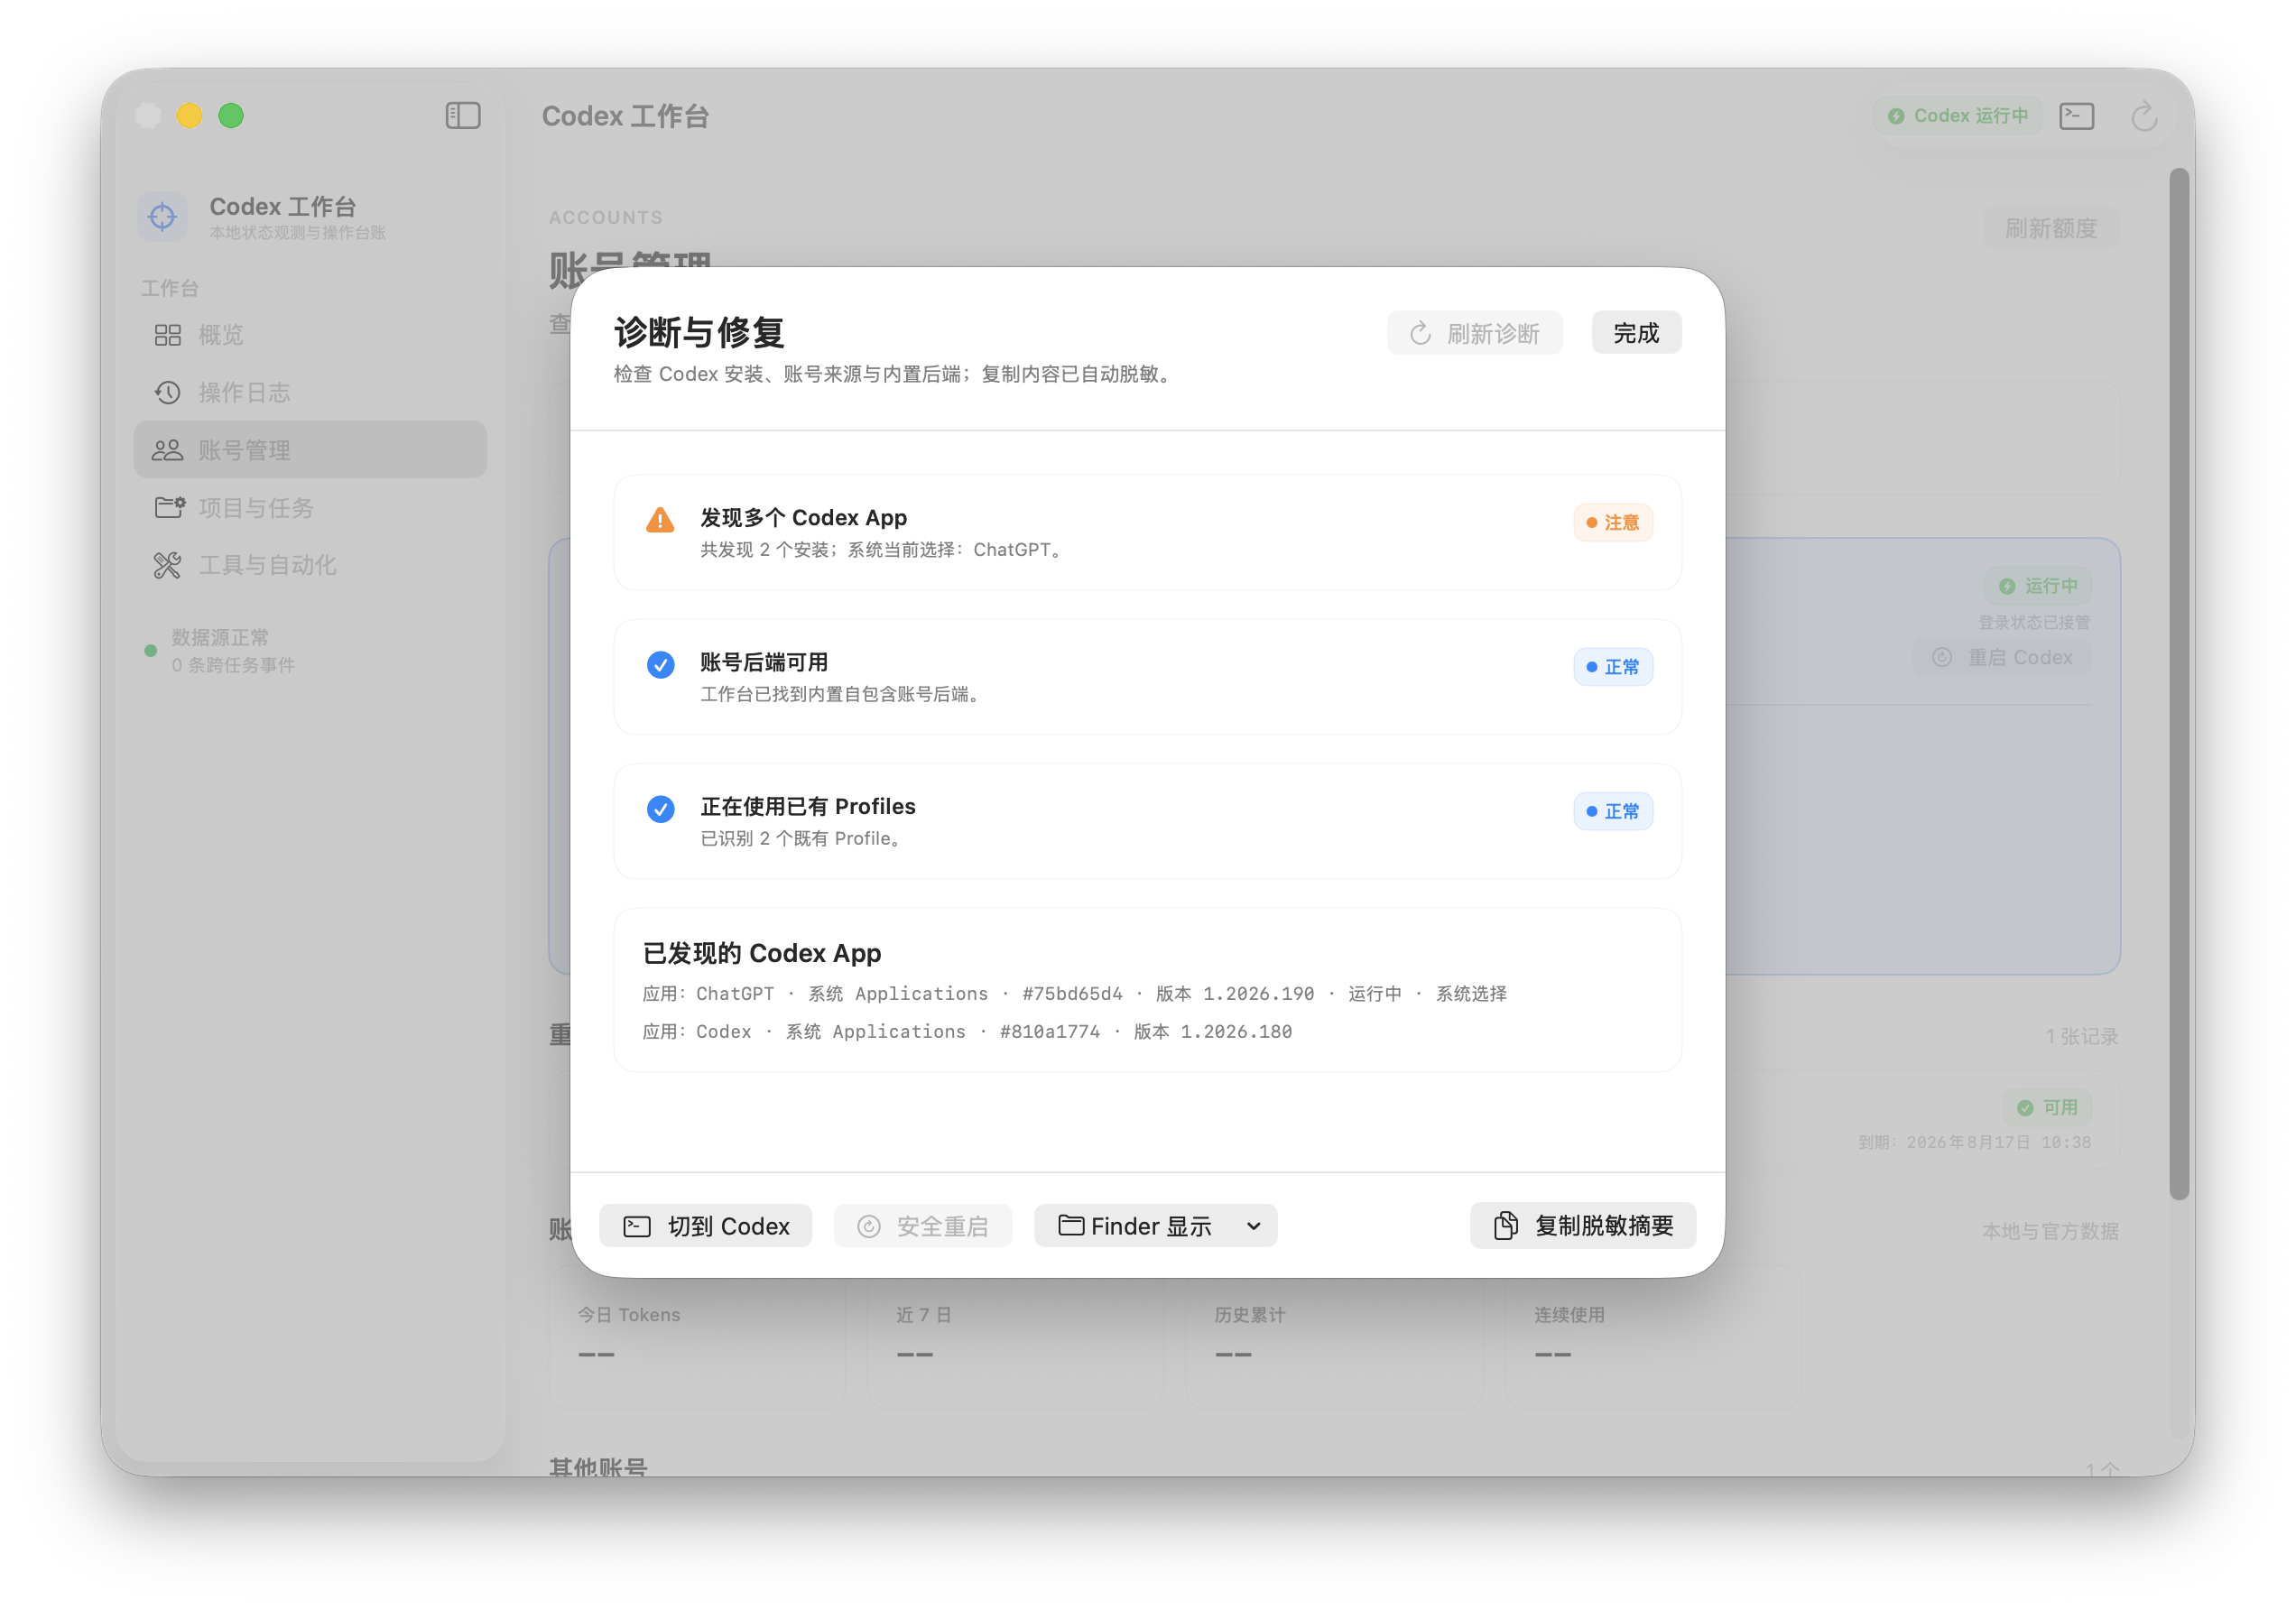
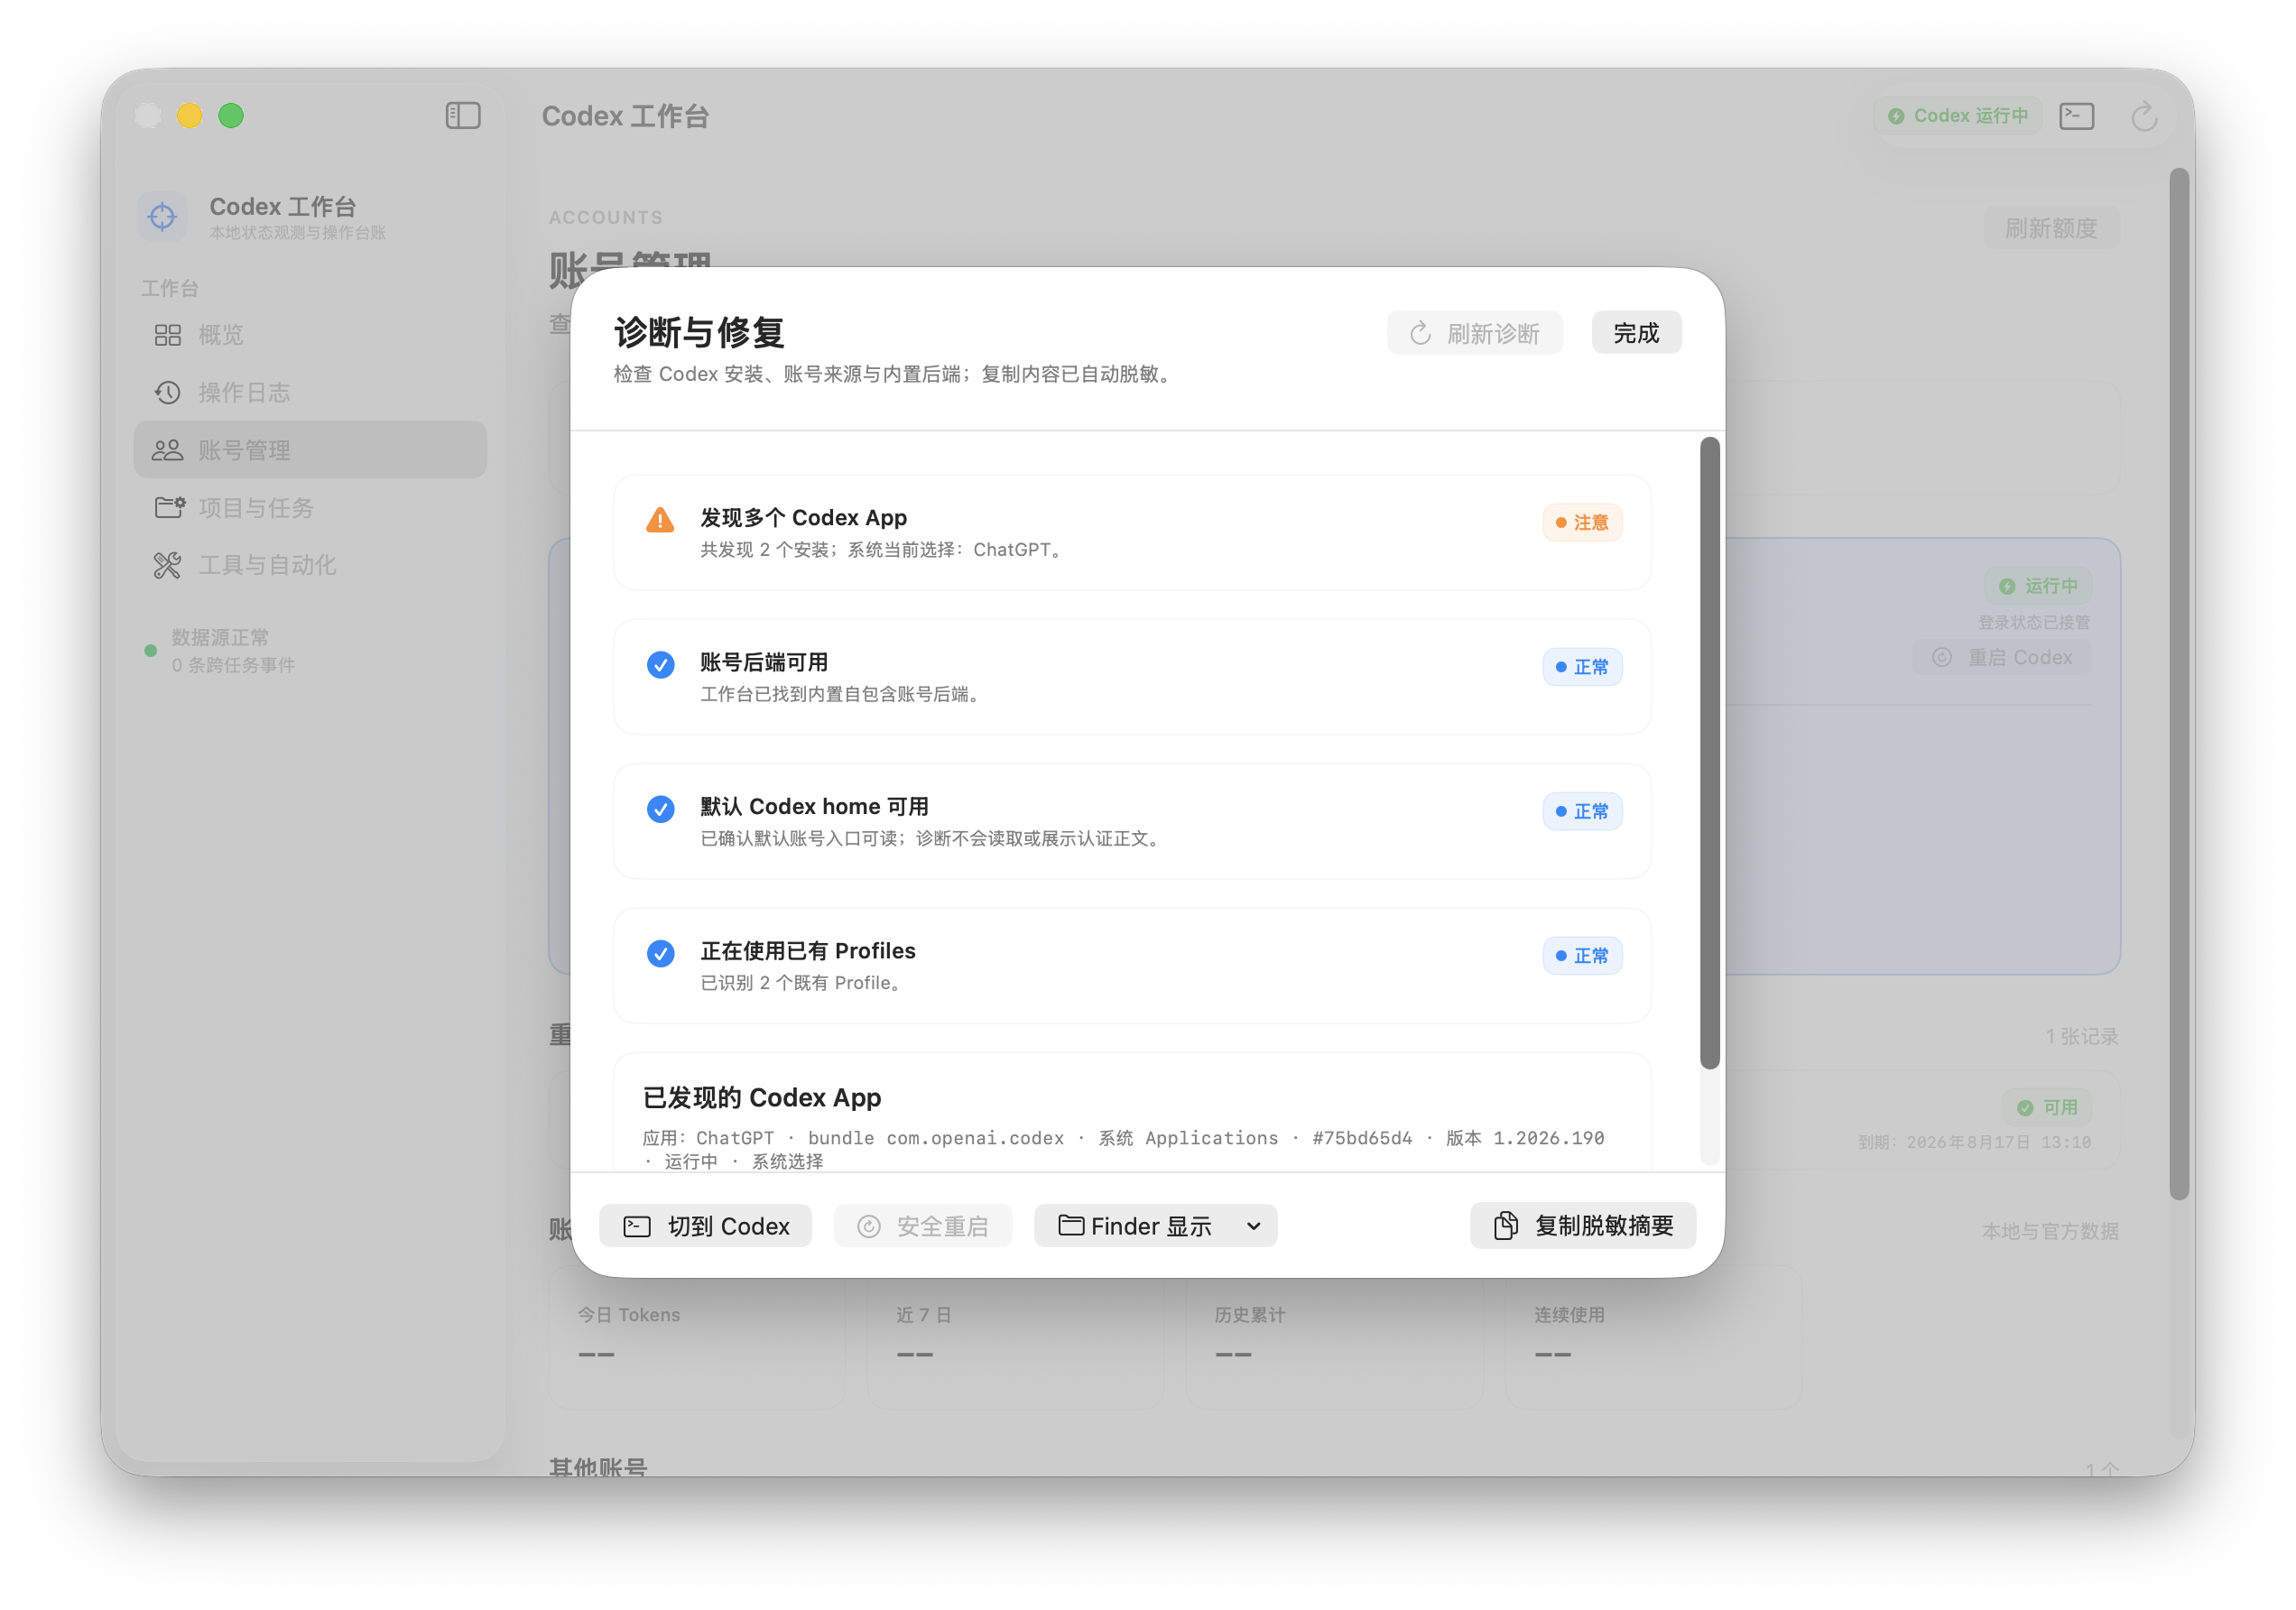
docs: refresh final workbench acceptance

diff --git a/codex-workbench/docs/productization-live-acceptance.md b/codex-workbench/docs/productization-live-acceptance.md
@@ -11,11 +11,11 @@
 - 安装位置：`/Users/dysania/Applications/Codex 工作台.app`
 - Bundle ID：`com.hd2yao.codex-workbench`
 - 版本：`0.2.0`
-- 最终安装源码提交：`23c3616`
[3 lines of base64/hex data omitted]
-- 构建时间：`2026-07-21T02:55:12Z`
+- 最终安装源码提交：`7877301`
[3 lines of base64/hex data omitted]
+- 构建时间：`2026-07-21T05:04:40Z`
 
 旧 `Codex 观测站.app` 已原子迁移为唯一的 `Codex 工作台.app`；旧名称不再并存。安装前后的 Codex 主进程均为 PID `52370`，启动时间为 2026-07-20 17:35:13，证明覆盖安装没有中断或重启正在执行任务的 Codex。
 
@@ -24,23 +24,26 @@
 - 已安装冻结后端识别为 `managed_profiles`，识别 2 个既有 Profiles，当前 profile 为 `hd-sarah-blackwell`。
 - 桌面状态为已托管，后端记录 PID 与真实 Codex PID 一致；安装和验收没有修改认证正文、消费重置卡或创建新账号。
 - 2026-07-17 的既有真实验收已完成 `hd-sarah-blackwell → hd-master → hd-sarah-blackwell` 双向切换并恢复初始账号，本轮完整 Python/Core 回归继续覆盖同一事务。
-- 本轮 runtime 为 `running`。按执行契约禁止为了验收中断真实任务，因此没有执行真实重启；空闲直接重启、运行/等待/未知确认、取消、失败、成功与账号验证由 Python、Core、AppModel 测试和安装版视觉状态覆盖。
-- 真实机器同时存在 `/Applications/ChatGPT.app` 与 `/Applications/Codex.app`。诊断页能报告重复安装、系统选择路径、运行状态、内置后端和 Profiles 模式；复制摘要使用类别化路径和短指纹，不包含认证正文、email、token、Cookie 或完整重置卡 ID。
+- 本轮 runtime 为 `running`。按执行契约禁止为了验收中断真实任务；安装版后端在执行前实时复核并以退出码 3 拒绝无确认重启，Codex PID 保持 `52370`。空闲直接重启、运行/等待/未知确认、取消、失败、成功与账号验证由 Python、Core、直接 AppModel 测试和安装版视觉状态覆盖。
+- 真实机器同时存在 `/Applications/ChatGPT.app` 与 `/Applications/Codex.app`。诊断页能报告 bundle id 解析、重复安装、系统选择路径、运行状态、默认 Codex home、内置后端和 Profiles 模式；复制摘要使用类别化路径和短指纹，不包含认证正文、email、token、Cookie 或完整重置卡 ID。
 
 ## 自包含与干净 HOME
 
-冻结后端在 `env -i HOME=<临时目录> PATH=/usr/bin:/bin` 下运行，临时 HOME 只有空 `.codex`，没有 Python、Homebrew、`.codex-profiles` 或源码路径。最终结果：
+冻结后端在 `env -i HOME=<临时目录> PATH=/usr/bin:/bin` 下分别验证缺少认证入口和仅有测试认证入口两种状态，没有 Python、Homebrew、`.codex-profiles` 或源码路径。最终结果：
 
-- 返回 `account_mode=local_default`、`active_profile=local-default`。
-- 所有 Mach-O 均为 arm64，无 x86_64。
-- 前后文件树一致，不创建 Profiles、软链、缓存或认证桥接。
-- 没有 `auth.json` 时不启动 Codex App Server，避免首次初始化向空 home 写入 SQLite、系统 Skills 和临时链接；151 个 Python 测试覆盖该回归。
+- 缺少 `auth.json` 或只有空 `.codex` 时返回 `account_mode=unavailable`、`active_profile=null`，不会把空目录冒充当前账号。
+- 测试 `auth.json` 存在时返回 `account_mode=local_default`，但账号不可确认，因此 Swift 不显示当前账号；账号读取只把认证入口复制到权限为 0700/0600 的临时 `CODEX_HOME`，App Server 的初始化写入与源 HOME 完全隔离并在读取后清理。
+- 两种状态的源 HOME 前后文件树与文件 hash 一致，不创建 Profiles、软链、SQLite、系统 Skills、缓存或认证桥接。
+- 所有冻结后端 Mach-O 均为 arm64，无 x86_64；151 个 Python 测试和 App 源码级默认 home 测试覆盖上述回归。
 
 ## 最终对抗式复审
 
 - 复审发现 UI 的运行状态最多可能陈旧 60 秒。账号后端现在会在真正退出 Codex 前再次读取任务状态；`running`、`waiting` 或未知状态未获明确确认时以专用结果拒绝执行，工作台收到后回到风险确认，确认后的命令才携带 `--allow-active`。
 - 复审发现旧冻结包的 Homebrew Python / OpenSSL 依赖包含 `minos 26.0`，与 macOS 13+ 声明冲突。构建工具现在先校验构建 Python，再对冻结后端和完整 App 的每个 Mach-O 执行最低系统版本门禁。
 - 最终冻结后端使用 arm64 Python 3.12 构建；后端 2 个、完整 App 4 个 Mach-O 均为 arm64，且 `minos` 不高于 13.0。默认 Homebrew Python 不兼容时会在重建 venv 前失败关闭。
+- 单账号 App Server 读取曾可能把初始化数据库和系统 Skills 写回真实 `~/.codex`；现在每次读取只把 `auth.json` 复制到临时 `CODEX_HOME`，权限收紧并在退出时清理，真实默认 home 保持只读。
+- GitHub 发布脚本曾只检查文件存在；现在上传前重新验证 SHA、DMG 结构、公证票据和 Gatekeeper，并要求工作树干净、HEAD 已是远端分支 tip、本地/远端 tag 与 Release 均不存在，最终 tag 通过 `--target` 绑定该 HEAD。
+- AppModel 新增源码级状态机 runner，直接覆盖实时拒绝后恢复确认、取消零命令、成功后验证与账号不一致失败；测试初始化不请求系统通知，也不触碰真实后台刷新。
 
 ## 结构性 DMG 与正式发行门禁
 
@@ -52,7 +55,7 @@
 - DMG 内所有 Mach-O 都是 arm64。
 - `spctl` 返回拒绝，符合未签名结构包预期；该包不可分发。
 
-`security find-identity -v -p codesigning` 返回 `0 valid identities found`。`release.sh` 在缺少 Developer ID / notary profile 时 fail closed，`publish-github-release.sh` 在缺少显式 `--publish` 时 fail closed。正式恢复条件已登记为任务 follow-up `followup_50b377c91561ad`。
+`security find-identity -v -p codesigning` 返回 `0 valid identities found`。`release.sh` 在缺少 Developer ID / notary profile 时以退出码 2 fail closed；`publish-github-release.sh` 对当前未公证结构包在任何 GitHub 调用前拒绝上传。正式恢复条件已登记为任务 follow-up `followup_50b377c91561ad`。
 
 发布前说明已经准备为 [`release-notes-v0.3.0-draft.md`](release-notes-v0.3.0-draft.md)，明确 Apple Silicon、macOS 13+、手动升级、无新增账号和隐私边界；文件仍标记“草案，未发布”。
 
@@ -99,14 +102,14 @@
 |---|---|---|
 | AC-PD-001 | PASS | 唯一工作台、同 bundle id、原子旧名迁移与冷备说明。 |
 | AC-PD-002 | PASS | 五模块；项目/任务和工具/Skill/Hook/自动化真实证据。 |
-| AC-PD-003 | PASS | 空默认 home 只读 `local_default`，无 Profiles/软链/写入。 |
+| AC-PD-003 | PASS | 空默认 home 返回 unavailable；认证入口存在时隔离读取且只在账号确认后展示，无 Profiles/软链/源 HOME 写入。 |
 | AC-PD-004 | PASS | 既有 2 Profiles 识别、历史双向真实切换与全量回归。 |
-| AC-PD-005 | PASS | 重启策略、确认、取消、事务、验证和脱敏日志测试；本轮因真实任务运行未强制重启。 |
-| AC-PD-006 | PASS | 重复 App、路径、后端、账号模式和安全动作诊断。 |
+| AC-PD-005 | PASS | 重启策略、实时二次复核、确认、取消、事务、验证和脱敏日志测试；安装版对运行任务拒绝无确认重启并保持 PID。 |
+| AC-PD-006 | PASS | bundle id、重复 App、路径、默认 home、后端、账号模式和安全动作诊断。 |
 | AC-PD-007 | PASS | 菜单与账号页的 local/profiles/重启/错误状态。 |
 | AC-PD-008 | PASS | 自包含后端与 App 全部 arm64，无外部 Python 运行依赖。 |
 | AC-PD-009 | 外部门禁 | 工具链和无凭据门禁通过；缺 Developer ID 与 notary profile。 |
-| AC-PD-010 | 外部门禁 | 显式发布脚本已通过测试；没有可发布的公证 DMG，未创建 Release。 |
+| AC-PD-010 | 外部门禁 | 显式发布脚本、远端 HEAD/tag 绑定和公证资产二次校验已通过测试；没有可发布的公证 DMG，未创建 Release。 |
 | AC-PD-011 | PASS | 无认证正文输出、临时 home、真实运行任务未中断。 |
-| AC-PD-012 | PASS | 三档视觉、深浅色、错误/确认/诊断、基础 AX、实时重启复核与完整回归。 |
+| AC-PD-012 | PASS | 三档视觉、深浅色、错误/确认/新鲜诊断截图、基础 AX、直接 AppModel 状态机测试与完整回归。 |
 | AC-PD-013 | 外部门禁 | 干净 HOME 与结构性 DMG 通过；正式 Gatekeeper DMG 等待签名公证。 |

diff --git a/codex-workbench/specs/productization/tasks.md b/codex-workbench/specs/productization/tasks.md
@@ -7,7 +7,7 @@
 
 - [x] **T002 本机单账号后端契约**
   映射：AC-PD-003、AC-PD-004、AC-PD-011
-  验收：无 profiles 时返回 `local_default` 只读账号；不创建 profile、active record 或软链；Profiles fixture 无回归。
+  验收：无 profiles 且默认认证入口存在时返回 `local_default` 只读账号；空 home 返回 unavailable；不创建 profile、active record 或软链；Profiles fixture 无回归。
   验证：Python RED/GREEN、临时目录文件树 diff、完整 Python tests。
 
 - [x] **T003 Swift 双模式账号展示与自动化门禁**
@@ -23,12 +23,12 @@
 - [x] **T005 当前账号安全重启**
   映射：AC-PD-005、AC-PD-007、AC-PD-011
   验收：空闲直接执行，高风险确认，取消无副作用；后端安全重启并验证；日志不含凭据。
-  验证：Python / Core RED/GREEN、AppModel 注入测试、空闲真实重启。
+  验证：Python / Core RED/GREEN、直接 AppModel 源码级状态机测试、历史空闲真实重启和本轮运行态拒绝实测。
 
 - [x] **T006 诊断与修复**
   映射：AC-PD-006、AC-PD-011、AC-PD-012
   验收：可点击诊断 sheet 显示真实脱敏结果和安全动作；识别重复官方 App；无删除 / 认证修复。
-  验证：Core fixture、App 服务注入、AX、当前机器真实诊断截图。
+  验证：Core fixture、默认 home 只读探测、bundle id 解析、App 服务注入、AX、当前机器真实诊断截图。
 
 - [x] **T007 信息架构与工作区目录**
   映射：AC-PD-002、AC-PD-012
@@ -43,7 +43,7 @@
 - [ ] **T009 Developer ID、DMG 与手动 Release 工具链**
   映射：AC-PD-008、AC-PD-009、AC-PD-010
   验收：arm64 DMG、SHA、内外签名、公证、fail-closed 发布脚本；无更新器。
-  验证：无凭据失败、结构性 DMG、SHA、arm64、Mach-O `minos <= 13.0`、独立 `codex-workbench-v<version>` tag 和显式发布门禁已通过；正式 `codesign` / `spctl` / `notarytool` / `stapler` 等待 Developer ID 与 notary profile。
+  验证：无凭据失败、结构性 DMG、SHA、arm64、Mach-O `minos <= 13.0`、上传前公证/Gatekeeper 二次校验、远端 HEAD/tag 绑定、独立 `codex-workbench-v<version>` tag 和显式发布门禁已通过；正式 `codesign` / `spctl` / `notarytool` / `stapler` 等待 Developer ID 与 notary profile。
 
 - [x] **T010 真实行为、视觉和无障碍验收**
   映射：AC-PD-004 至 AC-PD-007、AC-PD-011、AC-PD-012
@@ -53,7 +53,7 @@
 - [ ] **T011 干净用户与 DMG 验收**
   映射：AC-PD-003、AC-PD-008、AC-PD-009、AC-PD-013
   验收：无 Python / Homebrew / profiles 的 Apple Silicon 干净用户可直接安装并识别默认账号；覆盖安装保留数据。
-  验证：隔离 HOME 文件树前后 diff、自包含运行、结构性 DMG 挂载/覆盖/arm64/SHA 已通过；正式 Gatekeeper 放行等待签名公证。
+  验证：无认证与测试认证两种隔离 HOME 的文件树/hash 前后 diff、自包含运行、结构性 DMG 挂载/两次覆盖/arm64/minOS/SHA 已通过；正式 Gatekeeper 放行等待签名公证。
 
 - [ ] **T012 文档、GitHub Release 与收敛**
   映射：AC-PD-001 至 AC-PD-013